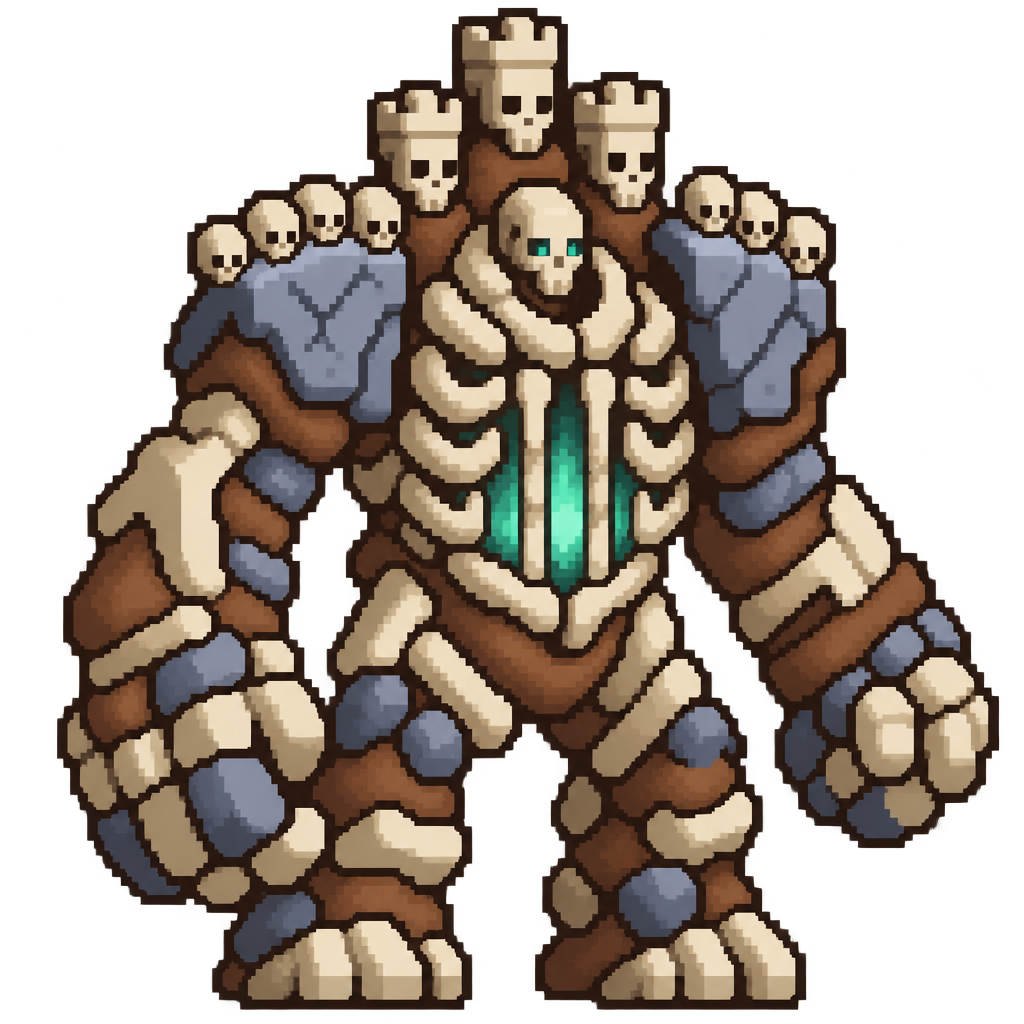
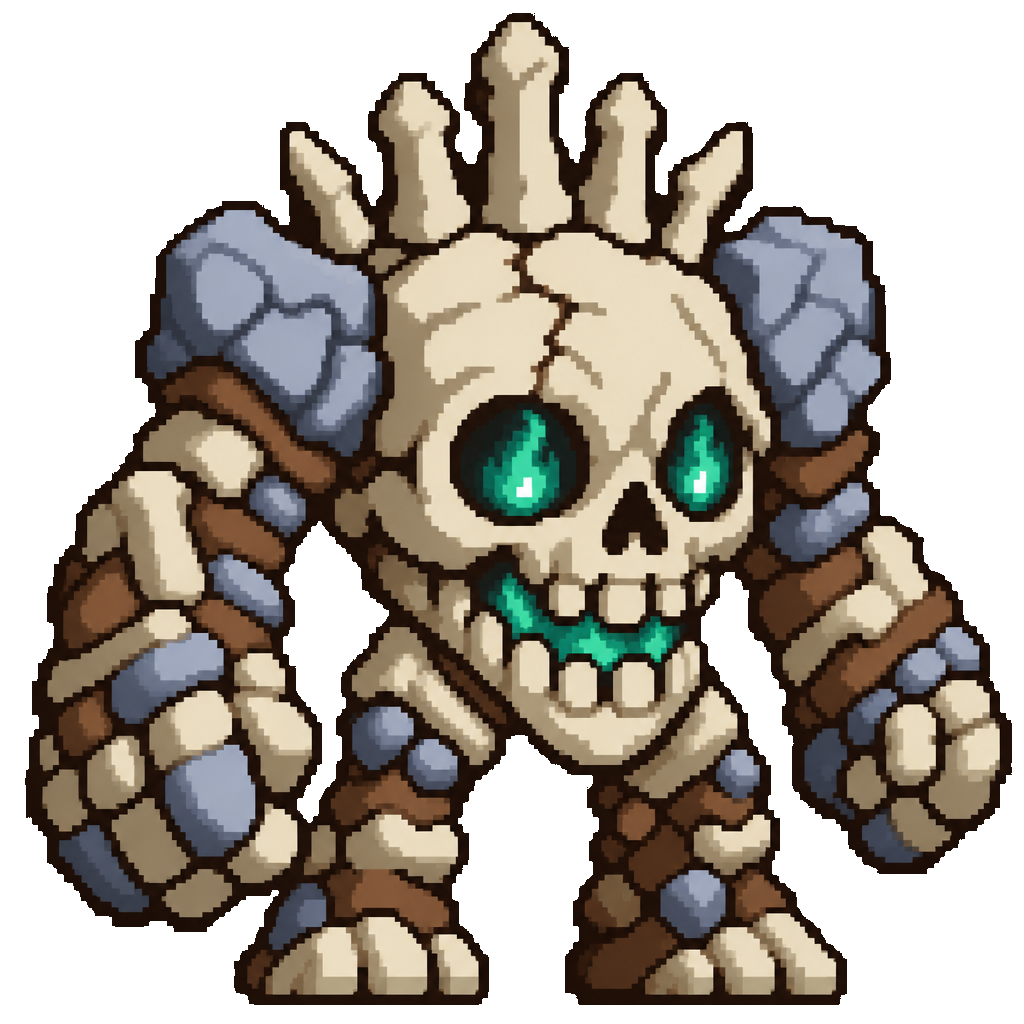
Art review: Bone Golem with a huge-skull torso, Titan, badges, slam fix
Owner's wave 2 art review notes, in line with making details bigger:
- summons/bone_golem: the torso is now one huge skull (big teal-lit eye
  sockets, the jaw at the belly), stacked-bone arms with low fists,
  stumpy legs; 84x80 (same height).
- summons/ossuary_titan: the same huge-skull torso, grander (bone-spike
  crown, gravestone pauldrons, heavier fists); 108x104.
- Both walk strips rebuilt with walk_cycle.py; rigs re-cut for the new
  stills (hips 60 / 80, the fists rigid boxes over the leg tops).
- icons/bone_golem: the skull fills the badge (hand-pixelled from the
  AI symbol); icons/ossuary_titan redone to match the new Titan.
- effects/golem_slam: every frame shifted by whole px so the crater
  stays on the slam point (frames 4-7 had jumped about 23 px up).

Claude-Session: https://claude.ai/code/session_01FLPv2RqRe5qVsRWxUhur7z

diff --git a/tools/walk_cycle.py b/tools/walk_cycle.py
@@ -213,8 +213,10 @@ RIGS = {
     # --- Content wave 2: Bone Golem ---
     # Heavy stumping legs (short spread and lift); both huge low fists hang below the hip
     # and ride with the body (rigid), so only the two stumps step.
-    "summons/bone_golem": dict(mode="legs", hip=59, back=(20, 45), front=(45, 67), rigid=[(0, 20, 59, None), (67, 88, 59, None)], spread=2, lift=2, dip=1),
-    "summons/ossuary_titan": dict(mode="legs", hip=77, back=(22, 53), front=(53, 80), rigid=[(0, 22, 77, None), (80, 104, 77, None)], spread=2, lift=2, dip=1),
+    # Wave 2 art review (the huge-skull redo): the jaw ends above the hip; each low fist hangs
+    # over its leg's top, so the fist is a rigid box down to the foot, then a narrower box beside it.
+    "summons/bone_golem": dict(mode="legs", hip=60, back=(0, 43), front=(43, 84), rigid=[(0, 29, 60, 71), (0, 23, 71, None), (61, 84, 60, 70)], spread=2, lift=2, dip=1),
+    "summons/ossuary_titan": dict(mode="legs", hip=80, back=(0, 58), front=(58, 108), rigid=[(0, 34, 80, 93), (0, 28, 93, None), (86, 108, 80, None)], spread=2, lift=2, dip=1),
 }
 
 # Skins (SkinData, cosmetic): skin sprite key -> its character's sprite key. A skin keeps
